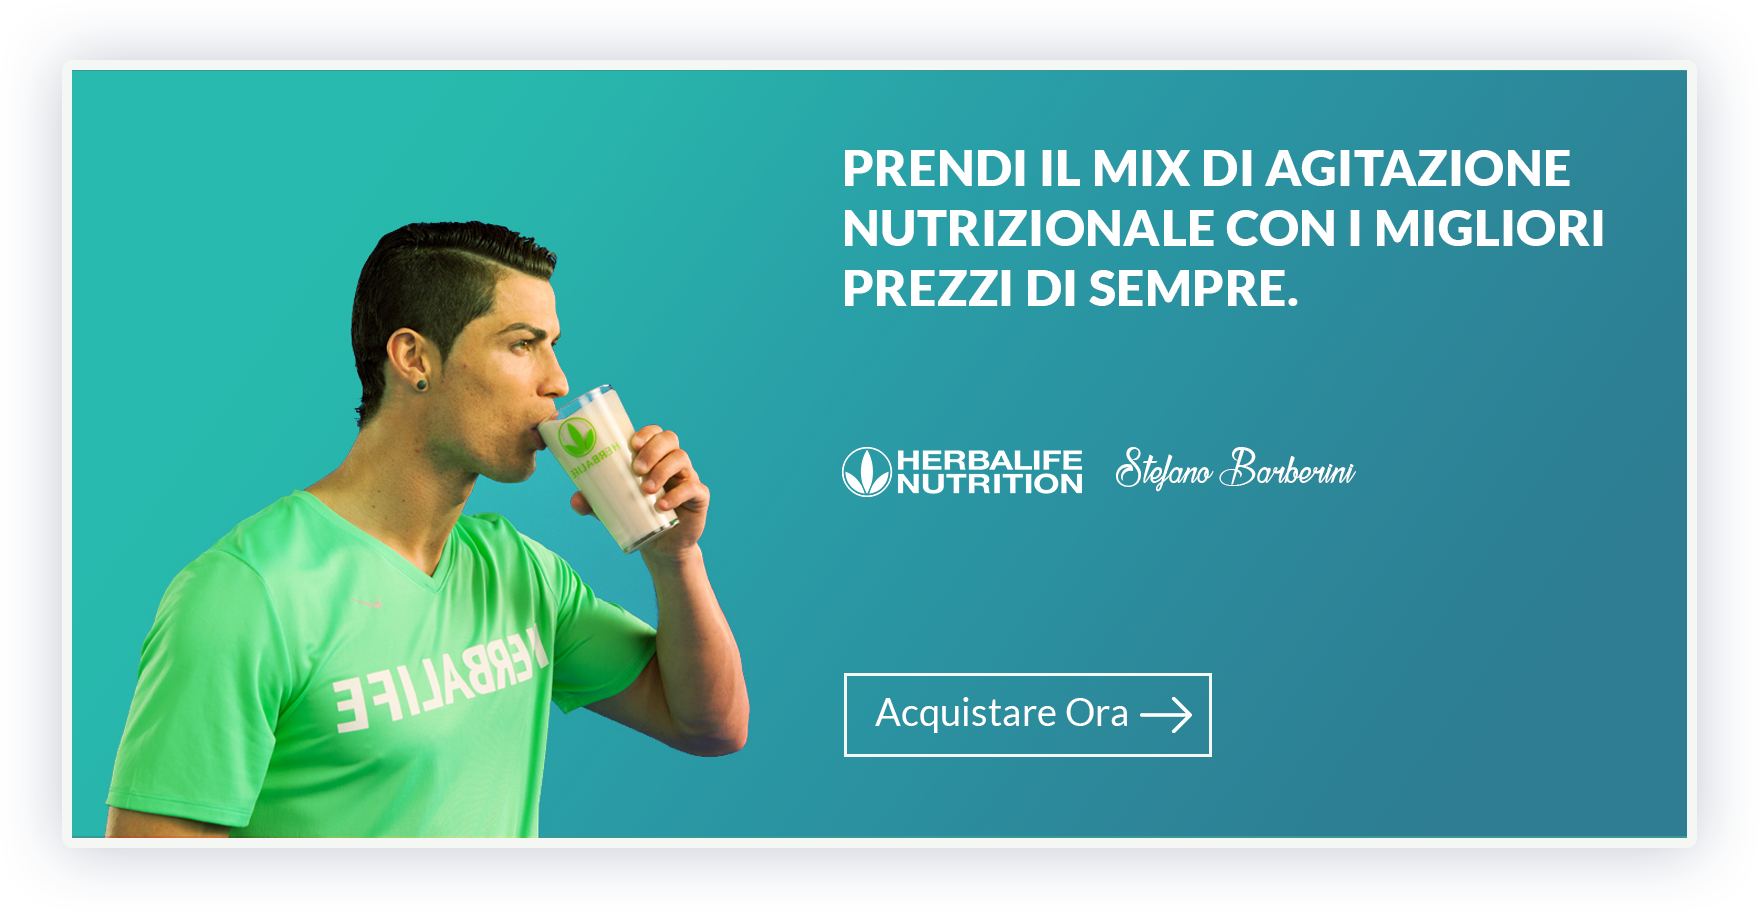
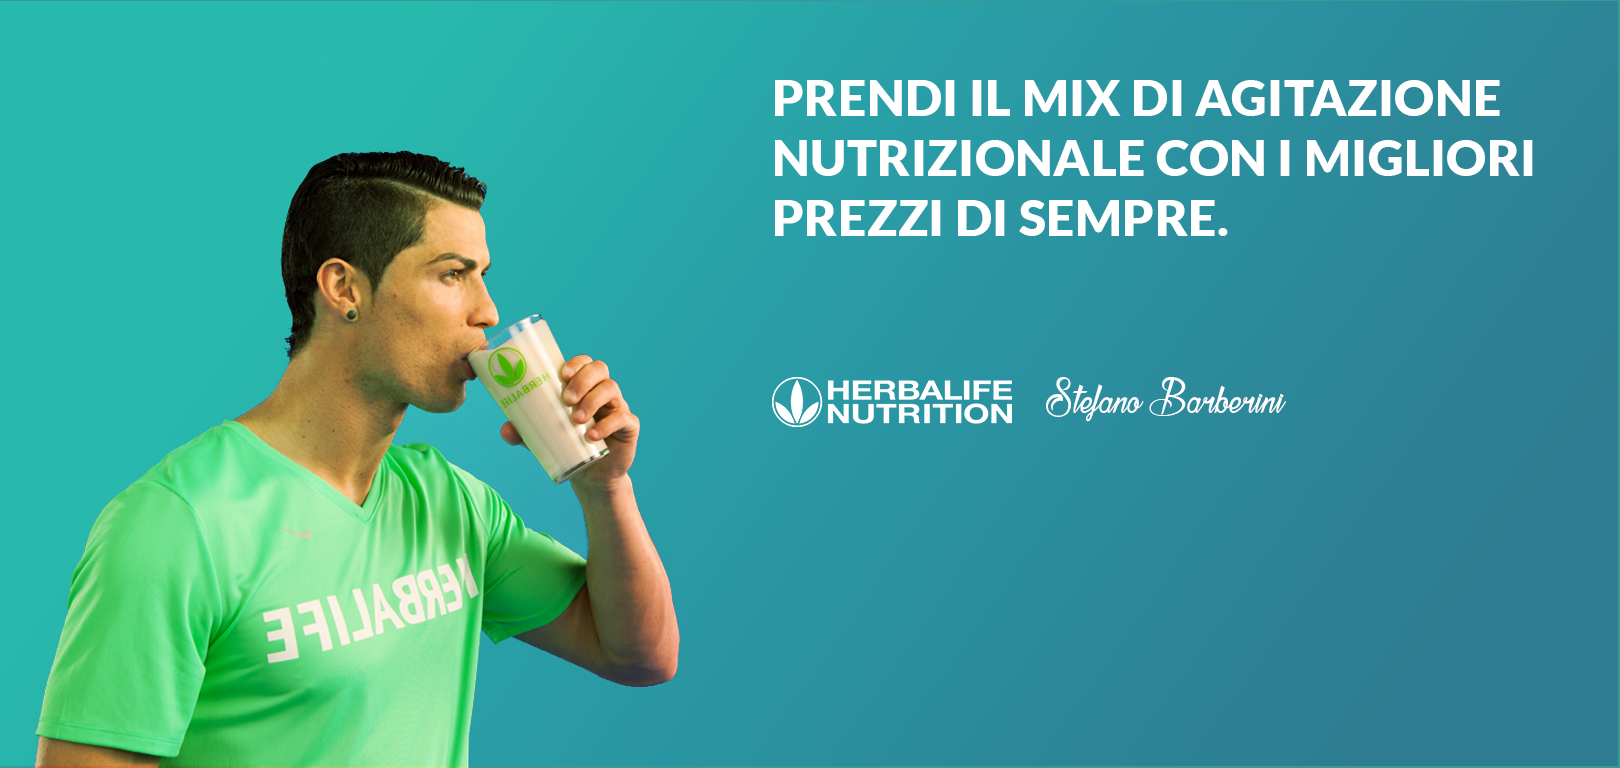
soulagood version

diff --git a/Part Soula/css/main.css b/Part Soula/css/main.css
@@ -8,10 +8,10 @@ body {
     font-family: "Lato";
 }
 
-header {
+.header {
     width: 100%;
     background: url(../assets/bg.png) no-repeat center;
-    background-size: contain 100vh;
+    background-size: cover;
     background-position-y: 0;
     background-repeat: no-repeat;
 }
@@ -63,7 +63,7 @@ a:hover+.line .focusedline {
     text-align: center;
     z-index: 21;
     padding-bottom: 10px;
-    margin-bottom: -2rem;
+    margin-bottom: -2rem; 
 }
 
 .nav-link {
@@ -83,7 +83,7 @@ a:hover+.line .focusedline {
     padding-top: 130px;
 }
 
-.productbutton {
+.productbutton{
     font-family: "Lato";
     line-height: 1.2;
     font-size: 2vw;
@@ -97,25 +97,23 @@ a:hover+.line .focusedline {
     height: 10%;
     bottom: 15%;
     right: 20%;
-    color: #f4f4f4;
-    padding: 0px !important;
+    color:#f4f4f4;
+    padding:0px !important;
 }
 
-.arrow {
+.arrow{
     margin-top: -3%;
     margin-right: -3%;
     width: 15%;
 }
 
-
-.whitebordercarousel {
+.whitebordercarousel{
     border: 10px solid #f4f4f4;
     border-radius: 10px;
     width: 95%;
     margin: 0 auto;
     box-shadow: 0px 2px 70px 0px rgba(6, 29, 71, 0.25);
 }
-
 
 .botomborder {
     border-bottom: solid 1px #93a2b3;
@@ -124,7 +122,7 @@ a:hover+.line .focusedline {
     padding-bottom: 20px;
 }
 
-center {
+center{
     padding-top: 50px;
     background: white;
 }
@@ -172,7 +170,7 @@ center {
     max-width: 320px;
 }
 
-.email {
+.email{
     height: 60px;
     width: 100%;
 }
@@ -192,52 +190,45 @@ center {
         margin-top: 5px;
         margin-bottom: 5px;
     }
-
-    .NON_C_È_TEMPO_MIGLIORE_DI_ORA_PER_INIZIARE__VIV {
+    .NON_C_È_TEMPO_MIGLIORE_DI_ORA_PER_INIZIARE__VIV{
         font-size: 20px;
     }
-
-    .club24hl {
+    .club24hl{
         font-size: 100px;
     }
 
 }
 
-@media (max-width:400px) {
-    .products {
-        font-size: 6vw;
+@media (max-width:400px){
+    .products{
+        font-size:6vw;
     }
-
-    .club24hl {
-        font-size: 15vw;
+    .club24hl{
+        font-size:15vw;
     }
-
-    .logo {
-        width: 50vw;
+    .logo{
+        width :50vw;
     }
 }
 
-@media(max-width:242px) {
-    .logo {
-        width: 40vw;
+@media(max-width:242px){
+    .logo{
+        width :40vw;
     }
-
-    .navbuton {
+    .navbuton{
         width: 15%;
-        padding: 0px;
+        padding:0px;
     }
 }
 
-@media (max-width:200px) {
-    .section1 {
-        padding: 0;
-    }
-
-    .box1 {
-        padding: 0;
-    }
+@media (max-width:200px){
+.section1 {
+    padding :0;
 }
-
+.box1{
+    padding: 0;
+}
+}
 .carousel-indicators li {
     width: 100%;
     height: 10px;
@@ -263,3 +254,4 @@ center {
     width: 100%;
     max-width: 508px;
 }
+

diff --git a/Part Soula/Index.html b/Part Soula/Index.html
@@ -69,7 +69,7 @@
 
 
   <!-- HEADER -->
-  <header>
+  <header class="header">
     <!-- SECTION CLUB24HL  -->
     <section class="section1 container">
       <div class="container justify-content-center">
